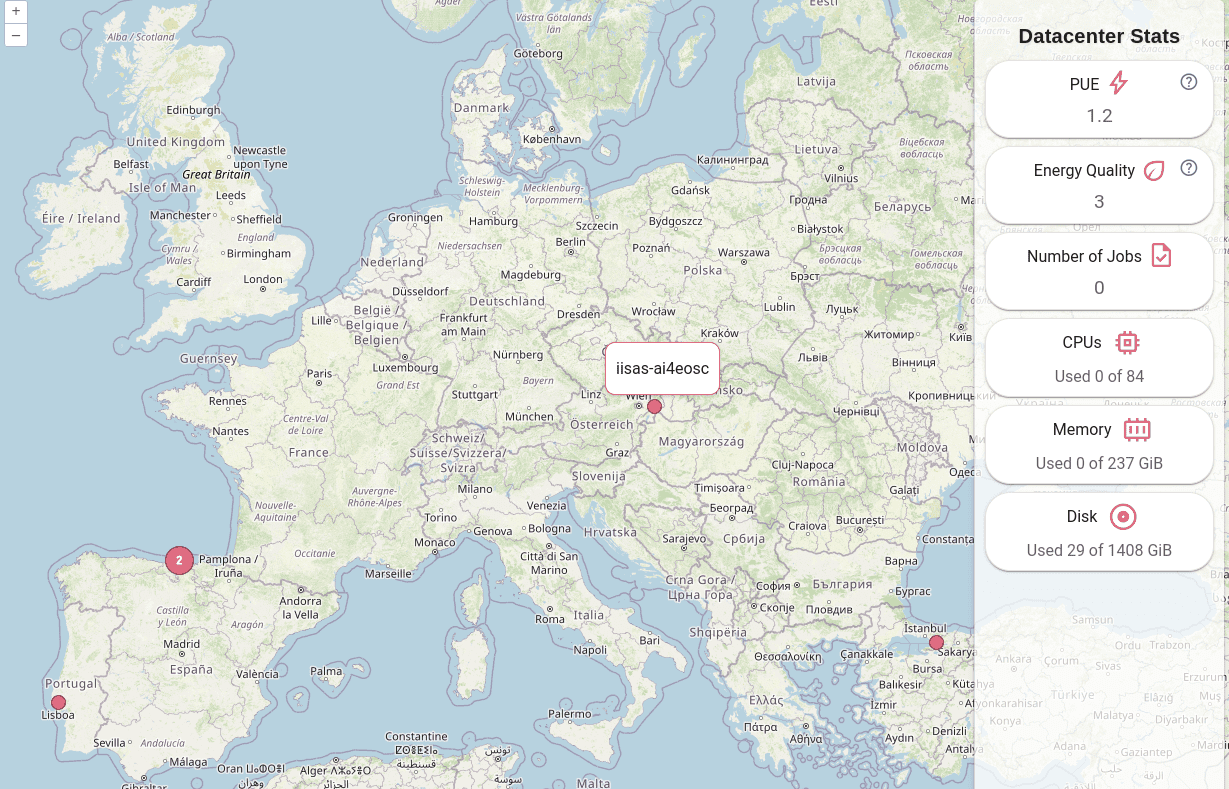
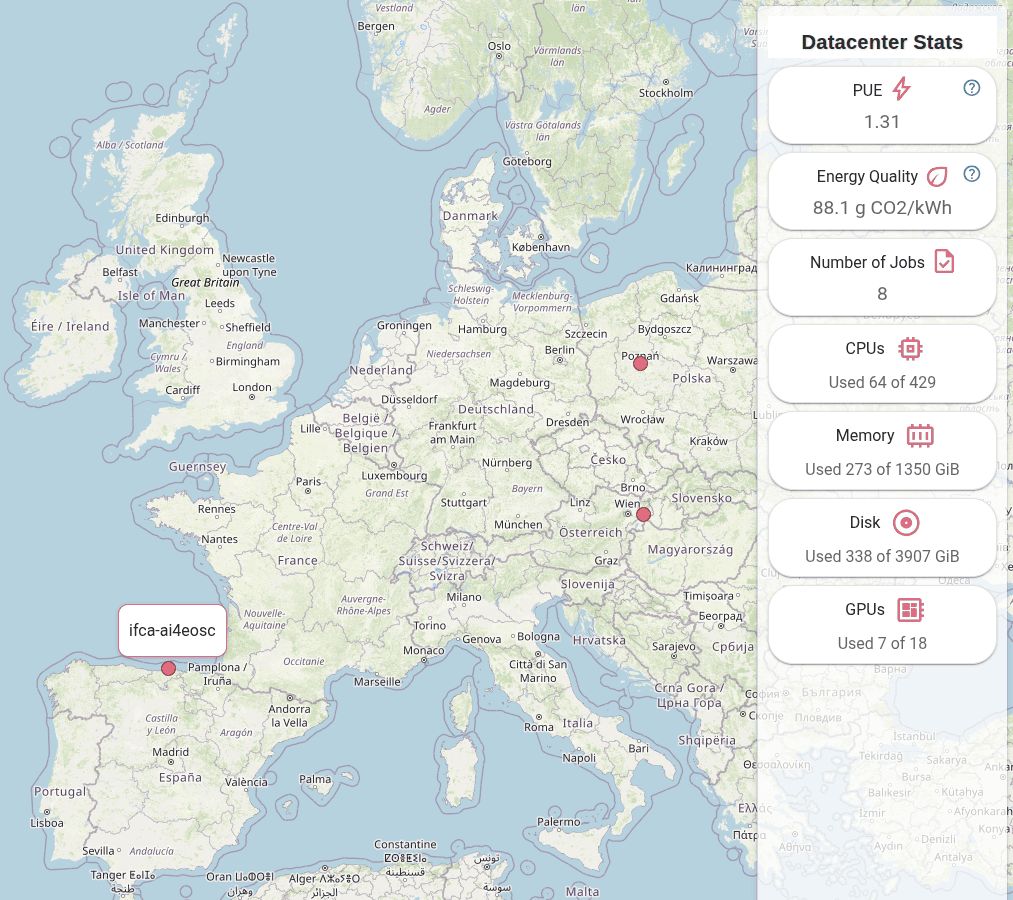
docs: add wattnet docs (#44)

diff --git a/source/reference/footprint.rst b/source/reference/footprint.rst
@@ -1,0 +1,43 @@
+Environmental footprint of AI
+=============================
+
+As AI models grow in complexity and scale, their energy consumption and carbon emissions
+become increasingly significant. Monitoring the environmental footprint of AI workloads
+is essential to promote sustainable practices and to make informed decisions about
+resource usage during training and inference.
+
+This is why AI4EOSC has teamed with `Wattnet <https://wattnet.eu/>`__ and the `Greendigit <https://greendigit-project.eu/>`__ project to **monitor** the energy footprint of the platform and to **act** upon it. What is this integration currently offering?
+
+Real-time footprint visualization
+---------------------------------
+
+The Dashboard integrates a map with all the datacenters that are part of the AI4EOSC federation.
+Wattnet is able to offer real-time time estimations of the carbon impact of each datacenter (based on the mean values of the country where the datacenter is located).
+This is summarized in an *Energy Quality* metric, which measures (in CO2/kWH) how carbon intensive is the grid that datacenter is plugged to. Lower metrics will mean mean that the datacenters energy is cleaner.
+
+.. image:: /_static/images/dashboard/stats-datacenters.png
+
+
+Smart job scheduling
+--------------------
+
+Power Usage Effectiveness (PUE) is a metric that measures the energy efficiency of a datacenter by comparing the total energy consumed by the facility to the energy delivered to the computing equipment. A PUE of 1.0 would mean all energy goes to computing, while higher values indicate more energy is spent on cooling, lighting, and other overhead.
+
+Based on the datacenter mean energy quality (averaged over the previous days) and the datacenter PUE, AI4EOSC routes new deployments to greener datacenters. Future iterations will go even further, leveraging Wattnet forecasting capabilities to schedule jobs during the particular hours of the day where energy is greener.
+
+
+Detailed per-job monitoring
+---------------------------
+
+.. admonition:: Beta
+    :class: warning
+
+    This feature is still in development and may be subject to changes.
+
+Finally, AI4EOSC leverages the Greendigit stack (based on `Scaphandre <https://github.com/hubblo-org/scaphandre>`__) to offer realtime energy consumption metrics of any particular deployment in the AI4EOSC platform. Then Wattnet is used to transform this measurement into a relatable carbon footprint, that is shown to the AI4EOSC deployment owner in the Dashboard.
+
+.. todo: add image
+
+Finally, this information is included in the provenance chain of the AI module, offering future users accurate information of the training footprint of that user.
+
+By providing this level of transparency, AI4EOSC aims to raise awareness among users about the environmental cost of their AI workloads. Making researchers and developers mindful of the resources they consume encourages more responsible usage patterns, such as optimizing model architectures or reducing unnecessary training runs.

diff --git a/source/reference/index.rst b/source/reference/index.rst
@@ -31,6 +31,12 @@ User reference
 
         Chat with our LLM bot and interact live with our documentation.
 
+    .. grid-item-card:: :material-outlined:`eco;1.5em`  Environmental footprint
+        :link: /reference/footprint
+        :link-type: doc
+
+        Check what AI4EOSC is doing to minimize the environmental footprint of our AI workflows.
+
     .. grid-item-card:: :material-outlined:`lock;1.5em`  User access levels
         :link: /reference/user-access-levels
         :link-type: doc

diff --git a/source/index.rst b/source/index.rst
@@ -90,6 +90,7 @@ The platform is currently used by the following projects:
    Storage <reference/storage>
    AI Modules <reference/modules>
    LLM chatbot <reference/llm>
+   Environmental footprint <reference/footprint>
    User access levels <reference/user-access-levels>
 
 .. toctree::
